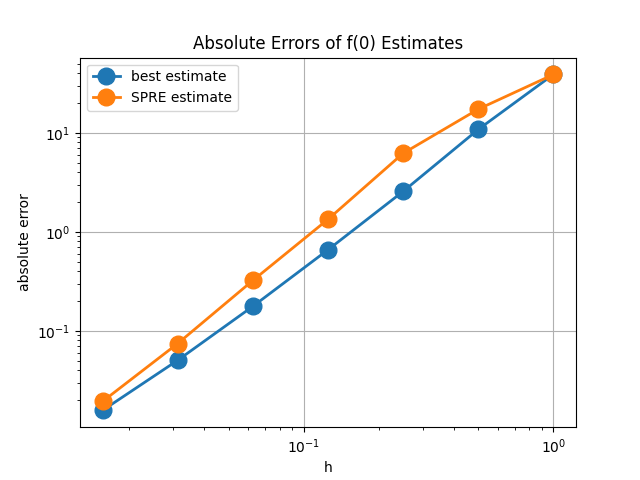
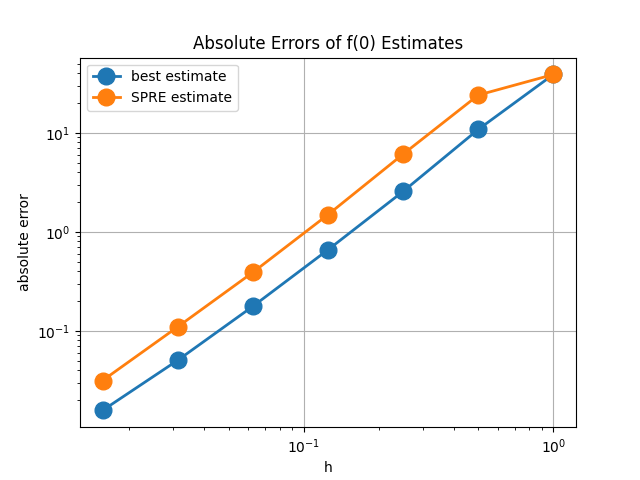
Attempts to fix singular matrix problems

diff --git a/src/sparse_pre/SPRE.py b/src/sparse_pre/SPRE.py
@@ -9,7 +9,7 @@
 
 # Python modules
 import jax.numpy as jnp
-from jax import grad, debug, hessian, jit
+from jax import grad, debug, hessian, jit, lax
 from tqdm import tqdm  # For progress bars
 from sklearn.neighbors import NearestNeighbors
 import numpy as np
@@ -212,6 +212,25 @@ class SPRE:
 
         return self.cv_loss_calculation(A, X, Y, Xs, Ys, x, str(row_num), return_mu_cov)
 
+    def check_unisolvent(self, VA, m):
+
+        rank = jnp.linalg.matrix_rank(VA)
+
+        def on_true(_):
+            # Raising Python errors inside JIT is not allowed.
+            # Instead return a special value.
+            debug.print(
+            "WARNING: basis not linearly independent. Rank={rank}, m={m}",
+            rank=rank, m=m
+        )
+            #raise ValueError("The set X is not unisolvent")
+            return -1
+
+        def on_false(_):           
+            return 1   # everything OK
+
+        return lax.cond(rank < m, on_true, on_false, operand=None)
+
     # Loss (log-likelihood of test data)
     def cv_loss_calculation(self, A : jnp.ndarray, X : jnp.ndarray, Y : jnp.ndarray, Xs : jnp.ndarray, Ys : jnp.ndarray, x : jnp.ndarray, row_num_str : str = "_", return_mu_cov : bool = False):
         """
@@ -239,8 +258,8 @@ class SPRE:
         # x = p x 1
     
         # Calculate some bits firstly    
-        #K_inv = jnp.linalg.inv(self.kernel(X, X, x))
-        K_inv = jnp.linalg.pinv(self.kernel(X, X, x))
+        K_inv = jnp.linalg.inv(self.kernel(X, X, x))
+        #K_inv = jnp.linalg.pinv(self.kernel(X, X, x))
         kernel_Xs_Xs = self.kernel(Xs, Xs, x)
         kernel_X_Xs = self.kernel(X, Xs, x)
         
@@ -257,6 +276,10 @@ class SPRE:
         VA = x2fx(X, A)
         vAT = x2fx(Xs, A).T
 
+        # i.e. the basis function is not linearly independent
+        #status = self.check_unisolvent(VA, A.shape[0])
+            
+        
         # Residual term
         # A = m x d (sparse matrix)
         # X = n_train x d
@@ -270,8 +293,8 @@ class SPRE:
         # X = n_train x d
         # Xs = n_test x d
         # x = p x 1  
-        #inv_VA_T_at_K_inv_at_VA = jnp.linalg.inv(VA_T_at_K_inv @ VA)
-        inv_VA_T_at_K_inv_at_VA = jnp.linalg.pinv(VA_T_at_K_inv @ VA, hermitian = True)
+        inv_VA_T_at_K_inv_at_VA = jnp.linalg.inv(VA_T_at_K_inv @ VA)
+        #inv_VA_T_at_K_inv_at_VA = jnp.linalg.pinv(VA_T_at_K_inv @ VA, hermitian = True)
         cov_val = (kernel_Xs_Xs
                 - kernel_Xs_X @ K_inv @ kernel_X_Xs
                 + residual_X_Xs.T @ inv_VA_T_at_K_inv_at_VA @ residual_X_Xs)
@@ -423,7 +446,7 @@ class SPRE:
         A_jnp = jnp.asarray(A)
         return -np.asarray(self.jit_hess(x_jnp, A_jnp))
 
-    def scipy_fun(self, x_onp, A):
+    def scipy_objective(self, x_onp, A):
         x_jnp = jnp.asarray(x_onp)            # numpy -> jax
         A_jnp = jnp.asarray(A)
         #return float(self.objective(x_jnp))             # scalar float
@@ -452,7 +475,7 @@ class SPRE:
         if do_jit:
             self.prepare_jit_for_extrapolation_optimization()
 
-        result = minimize(self.scipy_fun,
+        result = minimize(self.scipy_objective,
                     self.default_kernel_parameters,                    
                     method='trust-krylov',   # trust-krylov is trust region fitting algorithm
                     jac=self.scipy_jac,
@@ -496,6 +519,9 @@ class SPRE:
                     out.cv_grad = p x 1, gradient of LOOCV criterion
         """
 
+        # Number of training points
+        n_train = self.X_normalised.shape[0]
+
         # Initialise with just an intercept
         A = jnp.zeros((1, self.dimension), dtype=int)  
 
@@ -519,27 +545,35 @@ class SPRE:
         #    A1 = jnp.eye(self.dimension)
         #    A = jnp.vstack([A, A1])
 
+        # Try restricting te order..?
+        #max_order = 1
+
         order = 0
         fit = self.perform_extrapolation_optimization(A, do_jit)
         cv = fit['cv']
         
 
-        while carry_on:
-            order += 1
-            A_extra = stepwise(A, order)  # Generate new predictors of given order
+        while carry_on: # and order < max_order:
+            m = A.shape[0] # Number of rows in base A
+            order += 1 # Consider the addition of higher order interactions
+            A_extra = stepwise(A, order)  # All predictors of the nex order to consider
             n_extra = A_extra.shape[0]
             to_include = jnp.zeros(n_extra, dtype=bool)
 
             print(f"Fitting interactions of order {order}:")
 
             for i in tqdm(range(n_extra), desc="Stepwise progress"):
-                A_new = jnp.vstack([A, A_extra[i]])               
+                A_new = jnp.vstack([A, A_extra[i]])  
+                ## Check maximum rank, must be >= m to be OK, m = number of rows in A
+                #VA = x2fx(self.X_normalised, A_new)
+                #rank = jnp.linalg.matrix_rank(VA)
+                #print(f"{rank}, {m}")             
                 fit_new = self.perform_extrapolation_optimization(A_new, do_jit)
                 cv_new = fit_new['cv']
-                if cv_new < cv:
+                if cv_new < cv: # If adding new predictor helped
                     to_include = to_include.at[i].set(True)
 
-            if jnp.any(to_include):
+            if jnp.any(to_include) and ((m + sum(to_include)) < (n_train - 1)):
                 A_updated = jnp.vstack([A, A_extra[to_include]])                          
                 fit_updated = self.perform_extrapolation_optimization(A_updated, do_jit)
                 cv_updated = fit_updated['cv']
